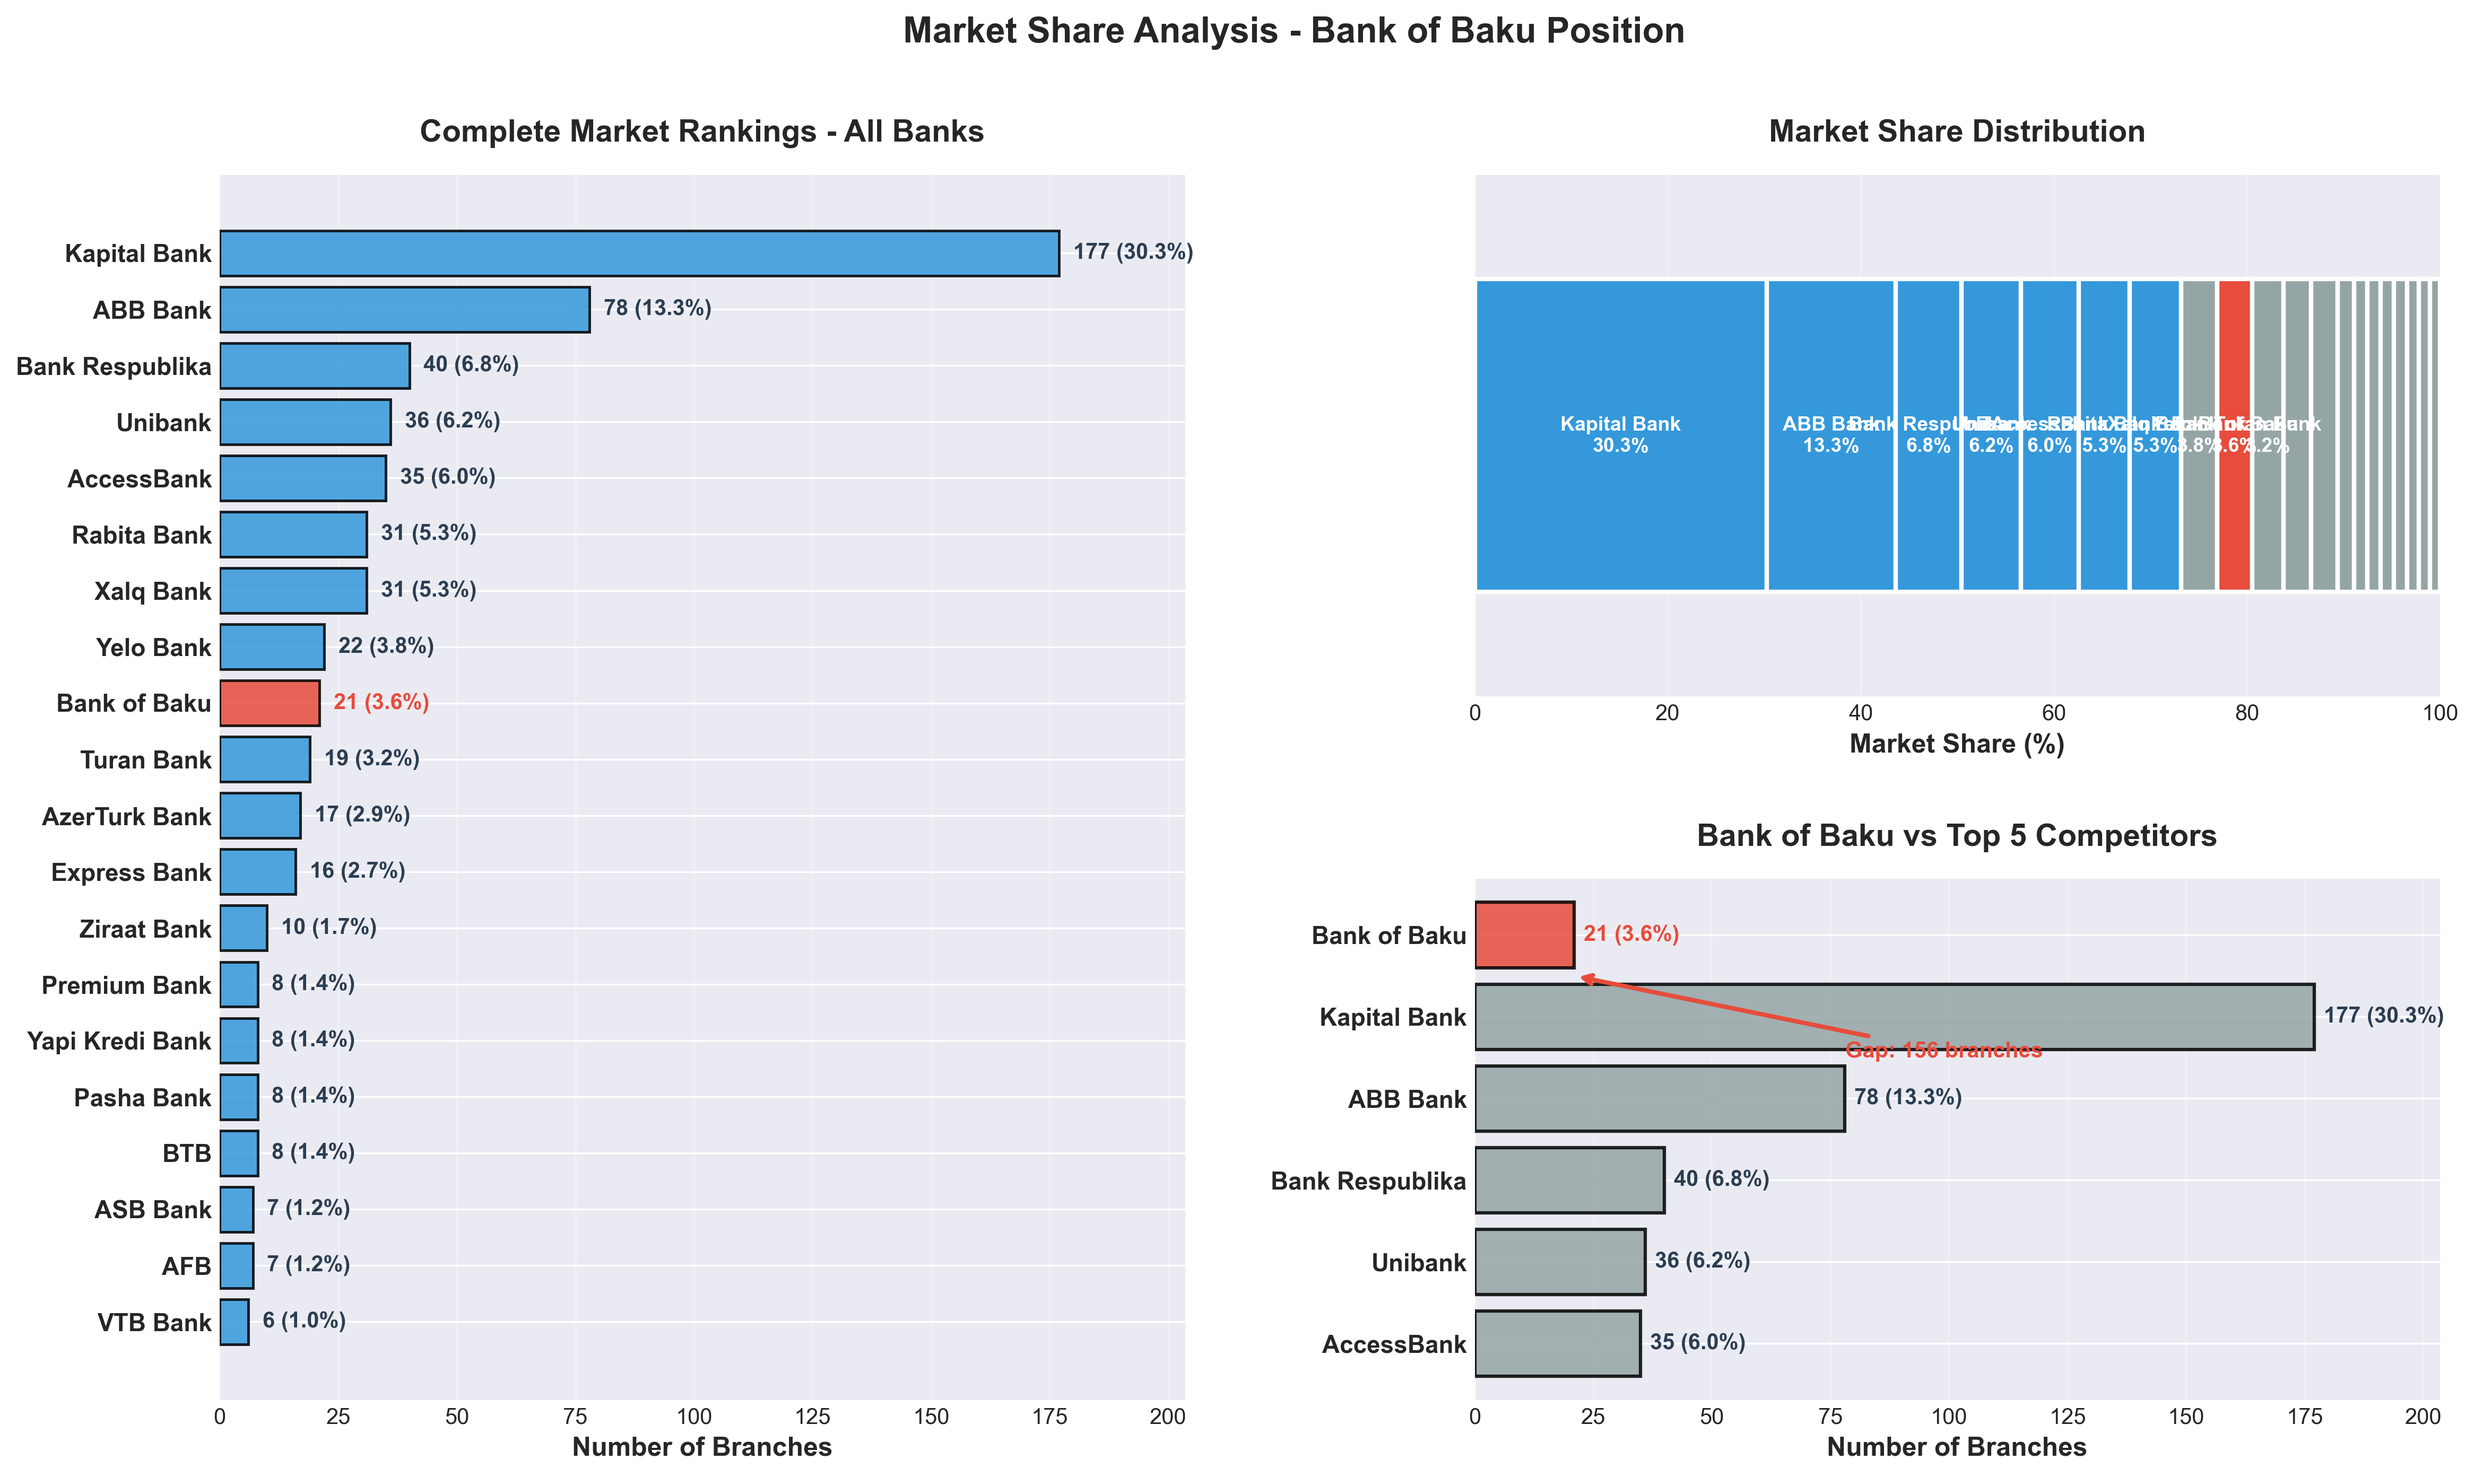
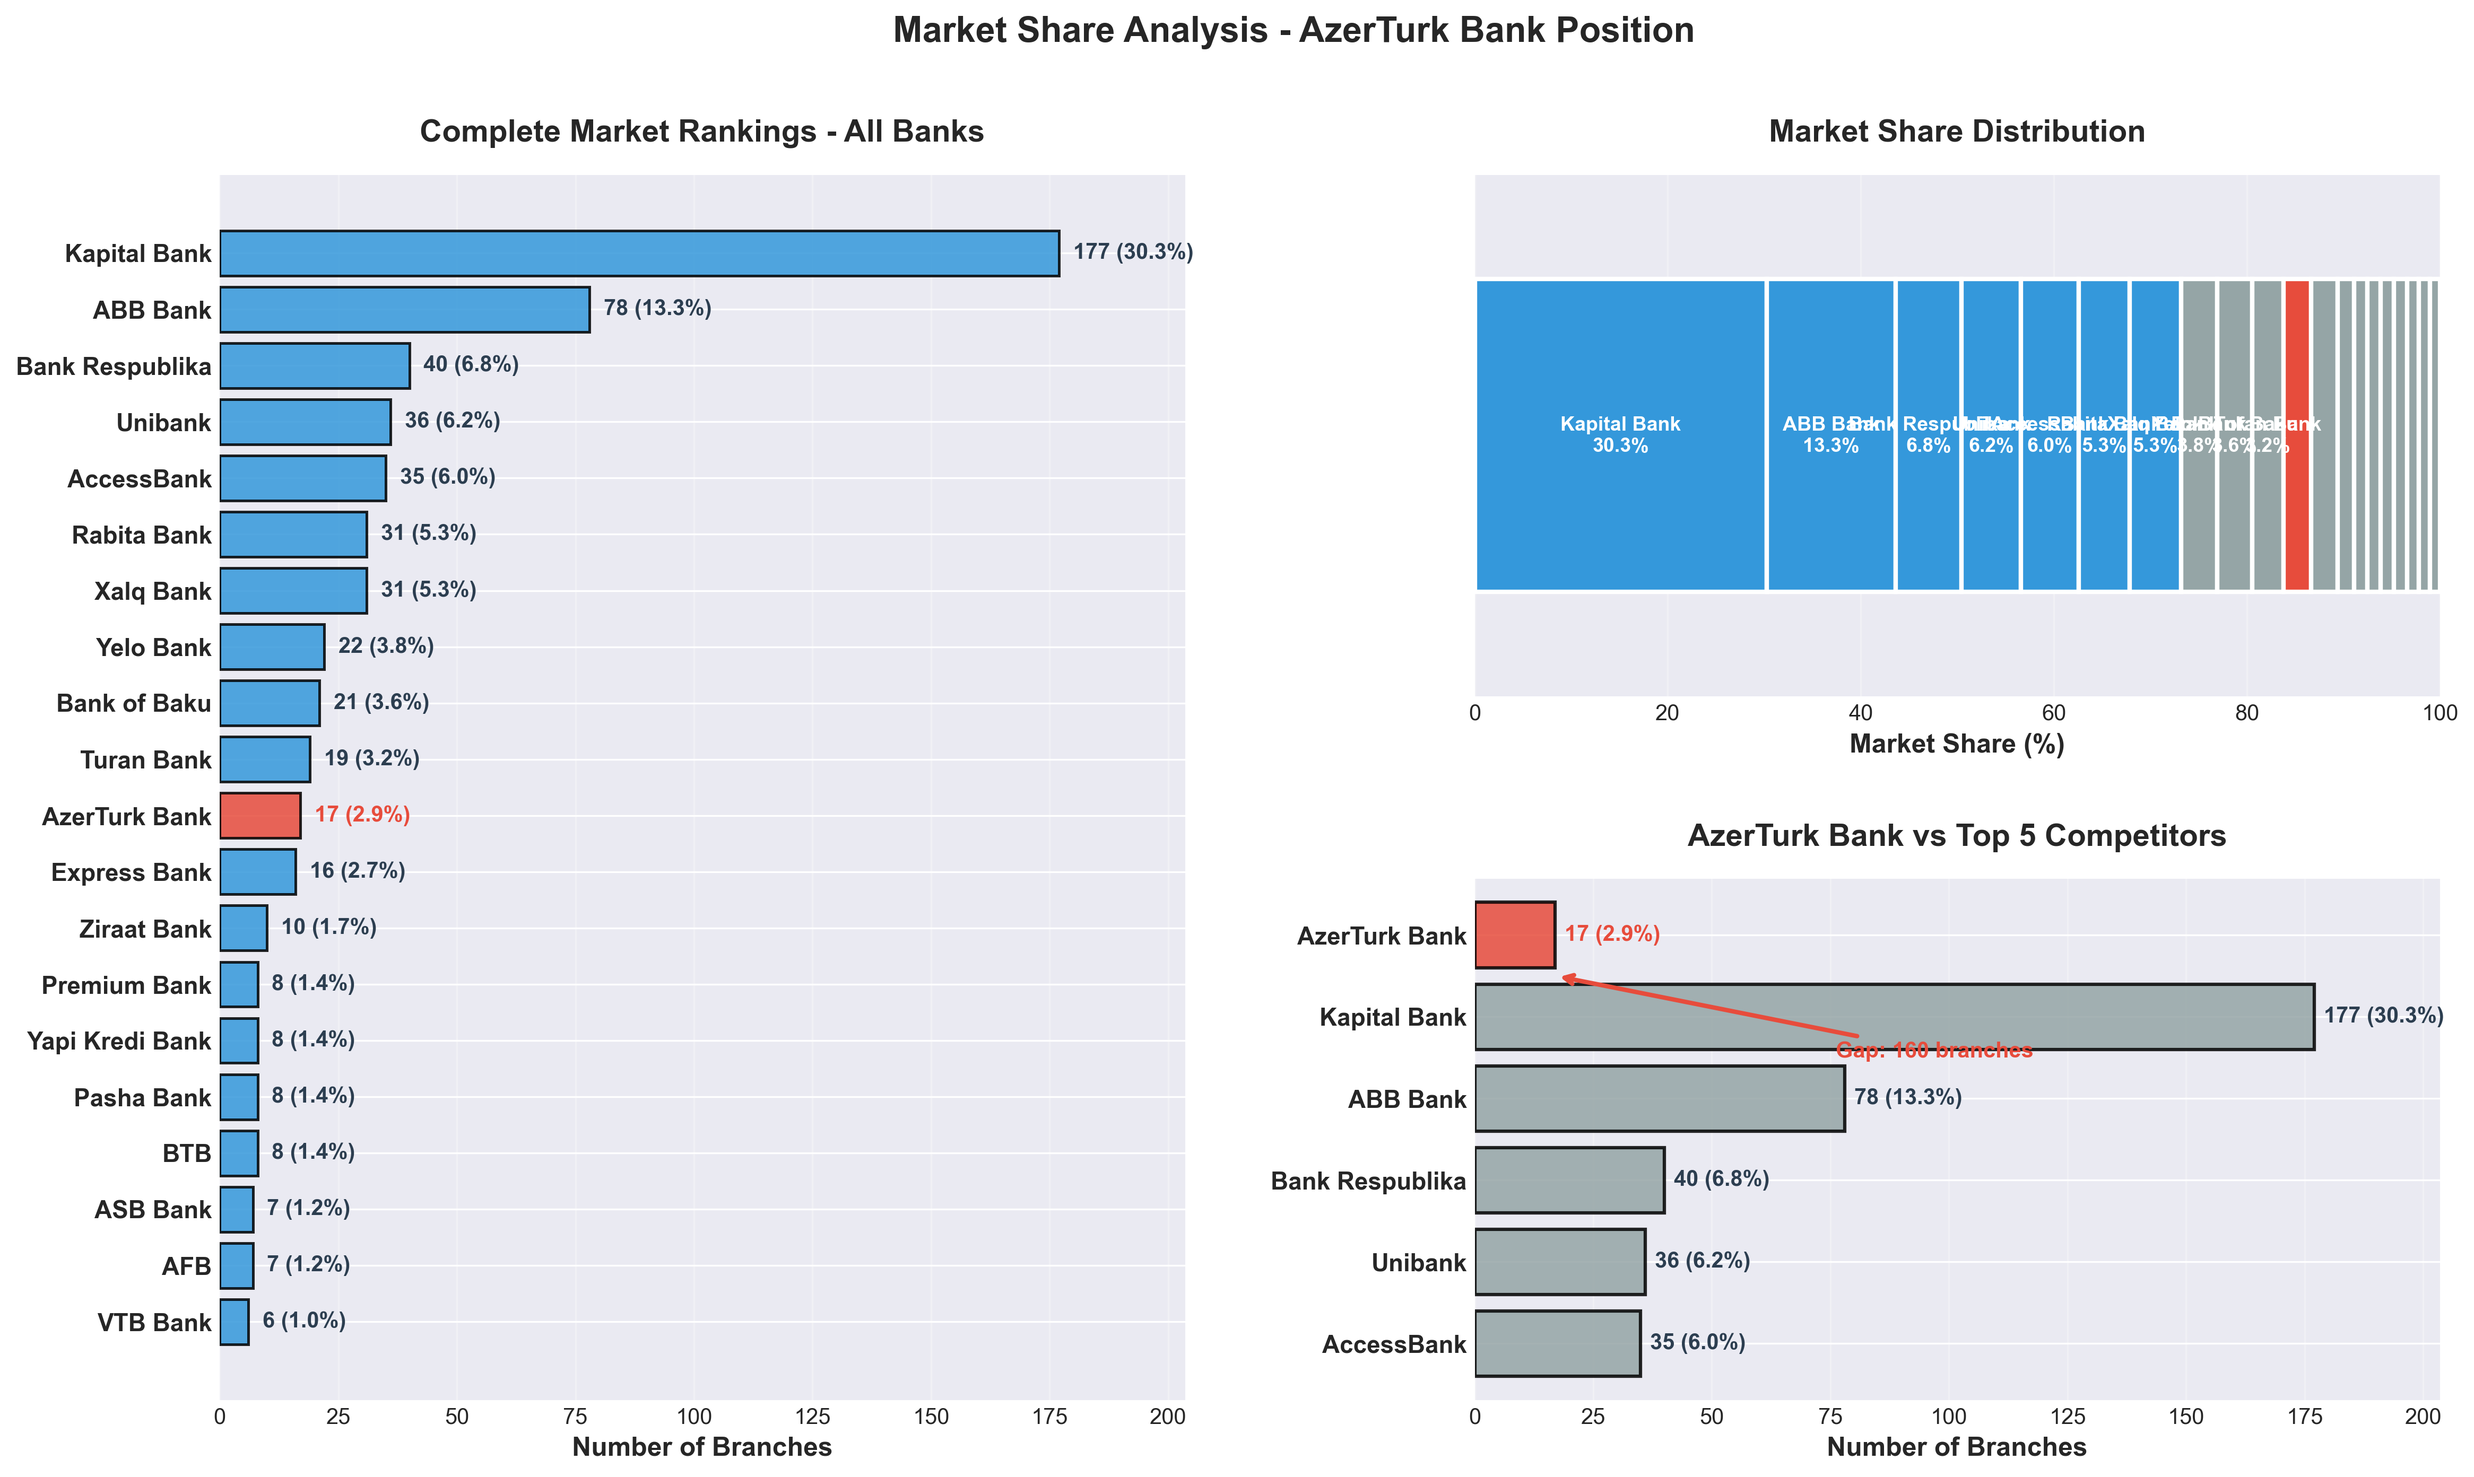
init

diff --git a/scripts/run_analysis.py b/scripts/run_analysis.py
@@ -1576,7 +1576,7 @@ print("Generating Strategic Insights Report...")
 
 insights_report = f"""
 ================================================================================
-BANK OF BAKU - STRATEGIC ANALYSIS & ACTIONABLE INSIGHTS
+AZERTURK BANK - STRATEGIC ANALYSIS & ACTIONABLE INSIGHTS
 ================================================================================
 Generated: {pd.Timestamp.now().strftime('%Y-%m-%d %H:%M:%S')}
 
@@ -1813,7 +1813,7 @@ print(" 14. Multi-Metric Comparison")
 print(" 15. Strategic Recommendations Summary")
 print()
 print("=" * 80)
-print("KEY INSIGHTS FOR BANK OF BAKU:")
+print("KEY INSIGHTS FOR AZERTURK BANK:")
 print("=" * 80)
 print(f"• Current Position: Rank #{atb_rank} with {atb_count} branches ({atb_count/total_count*100:.1f}% market share)")
 print(f"• Baku Concentration: {atb_region['Baku']/atb_count*100:.1f}% of branches")

diff --git a/README.md b/README.md
@@ -318,13 +318,9 @@ Number of competitors within 10km radius of each branch. Left: bank comparison. 
 Analysis of AzerTurk Bank's presence across Azerbaijan's actual geographic regions (Baku City, Absheron, North, Northwest, Central, South, West). Shows which banks dominate each zone and where ATB needs to expand.
 
 **Key Insights:**
-- **Baku City:** ATB presence needs recalculation for 17 branches
-- **Absheron Peninsula:** ATB has 2 branches (4.8% share, Rank #4) - decent position
-- **North Zone:** ATB has 2 branches (2.8% share, Rank #9) - weak presence
-- **Northwest Zone:** ATB has 1 branch (1.1% share, Rank #13) - very weak presence
-- **Central Zone:** ATB has **NO presence** - Kapital Bank leads with 12 branches
-- **South Zone:** ATB has 1 branch (5.3% share, Rank #3) - surprisingly good ranking
-- **West Zone:** ATB has **NO presence** - Kapital Bank leads with 10 branches
+- **All zone-specific stats need recalculation for ATB's 17 branches**
+- Zone presence, market shares, and rankings will differ from previous BoB analysis
+- Kapital Bank remains the dominant leader in Central (12 branches) and West (10 branches) zones
 
 **Critical Finding:**
 Two entire regions (Central and West) have **ZERO AzerTurk Bank branches** while Kapital Bank dominates with 12 and 10 branches respectively.
@@ -349,7 +345,7 @@ Focused heatmap for **Baku-Absheron region** (coordinates: 40.30-40.65°N, 49.60
 
 **Current Status:**
 - **292 total branches** in Baku-Absheron area
-- **16 AzerTurk Bank branches** (5.5% of area total)
+- **AzerTurk Bank branches** (needs recalculation for 17 total branches)
 - High competitive density requires precise targeting
 
 **Scoring Methodology (Urban-Optimized):**
@@ -383,7 +379,7 @@ Heatmap for **all regions outside Baku-Absheron**, scoring rural/regional expans
 
 **Current Status:**
 - **293 total branches** in regional Azerbaijan
-- **Only 5 AzerTurk Bank branches** (1.7% of regional total)
+- **AzerTurk Bank branches** (needs recalculation for 17 total branches)
 - **Significant expansion gap** compared to Baku presence
 
 **Scoring Methodology (Regional-Optimized):**

diff --git a/docs/CALCULATIONS.md b/docs/CALCULATIONS.md
@@ -641,13 +641,9 @@ for zone in zones:
 - **ATB Rank:** Position within each zone
 
 **Results Summary:**
-- **Baku City:** ATB presence needs recalculation for 17 branches
-- **Absheron:** ATB has 2 branches (4.8% share, Rank #4)
-- **North:** ATB has 2 branches (2.8% share, Rank #9)
-- **Northwest:** ATB has 1 branch (1.1% share, Rank #13)
-- **Central:** ATB has NO presence (Leader: Kapital Bank with 12 branches)
-- **South:** ATB has 1 branch (5.3% share, Rank #3)
-- **West:** ATB has NO presence (Leader: Kapital Bank with 10 branches)
+- **All zone-specific stats need recalculation for ATB's 17 branches**
+- Zone presence, market shares, and rankings will differ from previous analysis
+- Kapital Bank remains the dominant leader in Central (12 branches) and West (10 branches) zones
 
 ### Strategic Insight
 Two regions with **zero AzerTurk Bank presence** (Central and West) represent high-priority expansion targets. Kapital Bank dominates both zones.
@@ -701,7 +697,7 @@ def calculate_opportunity_score_baku(point):
 ### Output Metrics
 - **Grid Points:** 1,225 locations evaluated
 - **Top 15 Opportunities:** Highest scoring coordinates
-- **Current Status:** 292 total branches, 16 ATB branches (5.5%)
+- **Current Status:** 292 total branches, ATB branches needs recalculation
 
 ---
 
@@ -755,7 +751,7 @@ def calculate_opportunity_score_regions(point):
 ### Output Metrics
 - **Grid Points:** 900 locations evaluated
 - **Top 15 Opportunities:** Highest scoring coordinates
-- **Current Status:** 293 total branches, 5 ATB branches (1.7%)
+- **Current Status:** 293 total branches, ATB branches needs recalculation
 
 ### Key Difference from Chart 13a
 - Larger competitor search radius (30km vs 5km)
